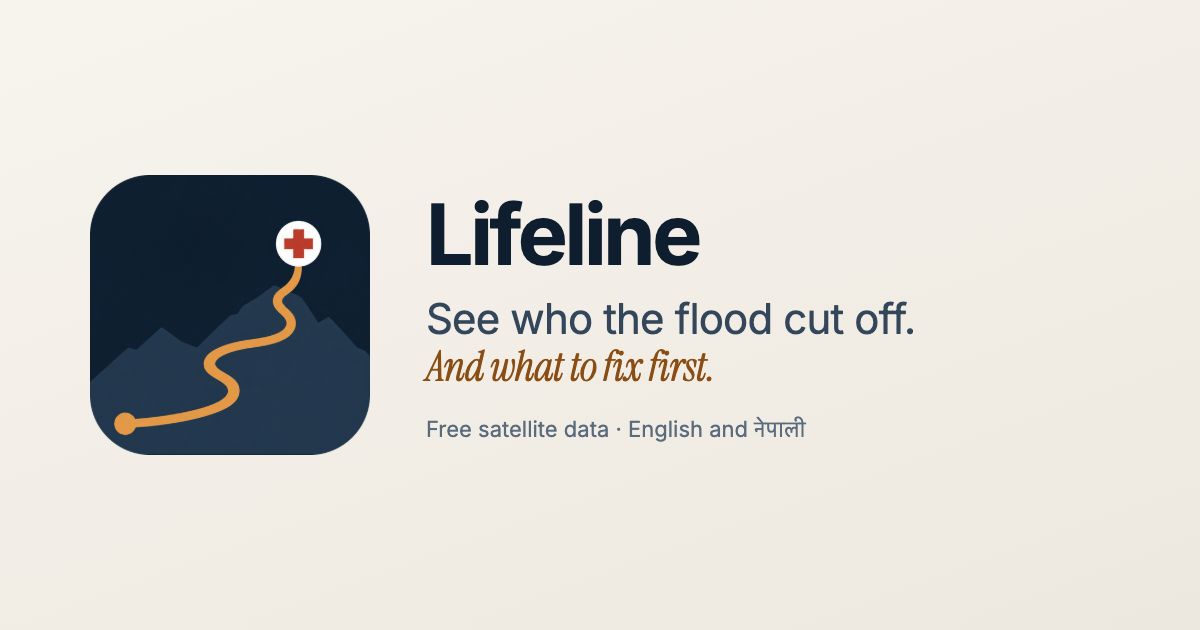
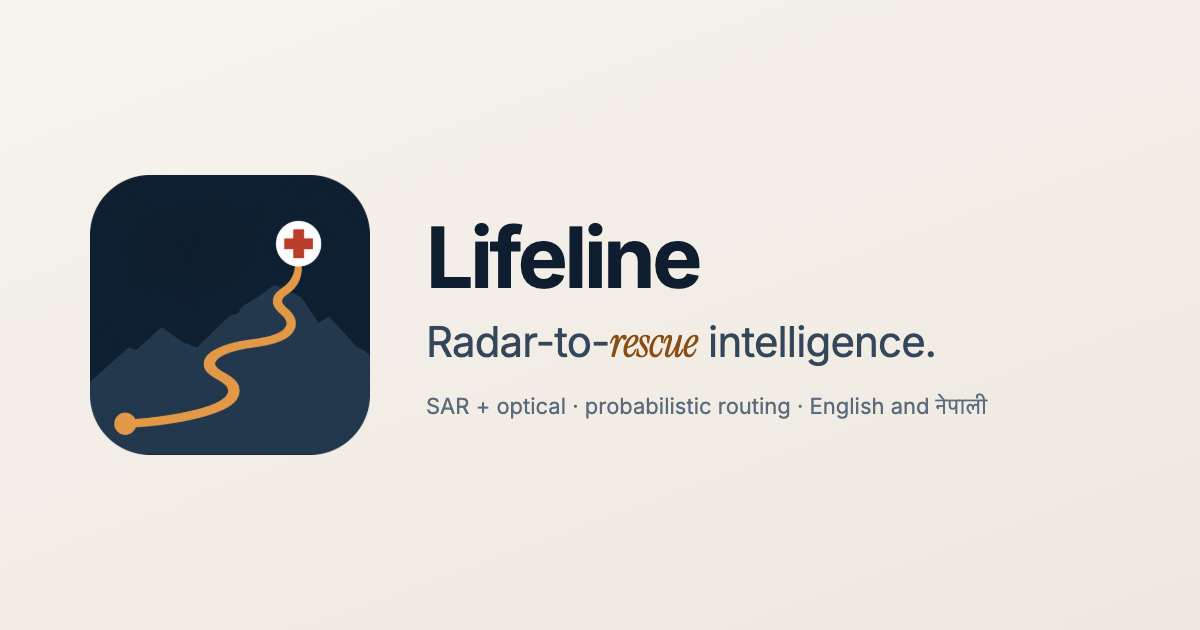
Tagline: radar-to-rescue intelligence

Changed region(s): [[0.3392, 0.3016, 0.7708, 0.6032], [0.3392, 0.6333, 0.8325, 0.6937]]

diff --git a/web/index.html b/web/index.html
@@ -3,7 +3,7 @@
 <head>
 <meta charset="utf-8">
 <meta name="viewport" content="width=device-width,initial-scale=1">
-<title>Lifeline · Who can still reach help</title>
+<title>Lifeline · Radar-to-rescue intelligence</title>
 <meta property="og:title" content="Lifeline · Who can still reach help">
 <meta property="og:description" content="Maps flood damage from free satellite data and works out which villages can no longer reach a hospital by road.">
 <meta property="og:type" content="website">
@@ -53,8 +53,8 @@
 <section class="hero" id="top">
   <div class="container">
     <span class="badge"><span class="badge__tag">Track B</span>Multimodal AI Hackathon 2026</span>
-    <h1>See who the flood cut off. <span class="t-muted">And what to fix first.</span></h1>
-    <p class="lead"><span data-name>Lifeline</span> reads free radar and optical satellite images, an elevation model and pre-flood OpenStreetMap. It maps the damage, finds the villages that have lost their road to a hospital, and ranks the repairs that reconnect the most villages.</p>
+    <h1>Radar-to-<span class="t-muted">rescue</span> intelligence.</h1>
+    <p class="lead">Multimodal SAR and optical change detection, probabilistic cut-off routing and a bilingual AI copilot. <span data-name>Lifeline</span> turns raw Sentinel-1, Sentinel-2, elevation and pre-flood OpenStreetMap data into the villages that lost their road to care, and the repair that reconnects the most, in about two minutes.</p>
     <div class="cta-row">
       <a class="btn btn-primary btn-lg" href="#run">Run any valley
         <svg viewBox="0 0 24 24" fill="none" stroke="currentColor" stroke-width="2" stroke-linecap="round" stroke-linejoin="round" aria-hidden="true"><path d="M5 12h14M13 6l6 6-6 6"/></svg></a>

diff --git a/web/js/app.js b/web/js/app.js
@@ -696,7 +696,7 @@ async function openRun(id, scroll) {
 /* ------------------------------------------------------------------ boot */
 function applyName() {
   $$("[data-name]").forEach((el) => (el.textContent = NAME));
-  document.title = `${NAME} · Who can still reach help`;
+  document.title = `${NAME} · Radar-to-rescue intelligence`;
   $$('meta[property="og:title"]').forEach((m) => (m.content = document.title));
   const d = $('meta[name="description"]'); if (d) d.content = d.content.replace(/^\S+/, NAME);
   $$("[data-name-label]").forEach((el) => el.setAttribute("aria-label", NAME + el.dataset.nameLabel));

diff --git a/README.md b/README.md
@@ -2,7 +2,7 @@
 
 # Lifeline
 
-**Who can still reach help.** Lifeline maps flood and debris damage from free satellite data, finds the villages that have lost their road to a hospital or clinic, ranks the repairs that reconnect the most of them, and writes the situation report in English and Nepali.
+**Radar-to-rescue intelligence.** Lifeline maps flood and debris damage from free satellite data, finds the villages that have lost their road to a hospital or clinic, ranks the repairs that reconnect the most of them, and writes the situation report in English and Nepali.
 
 Track B, Multimodal AI Hackathon 2026 (IIT Mandi): *Mapping Flood Damage from Space*.
 
